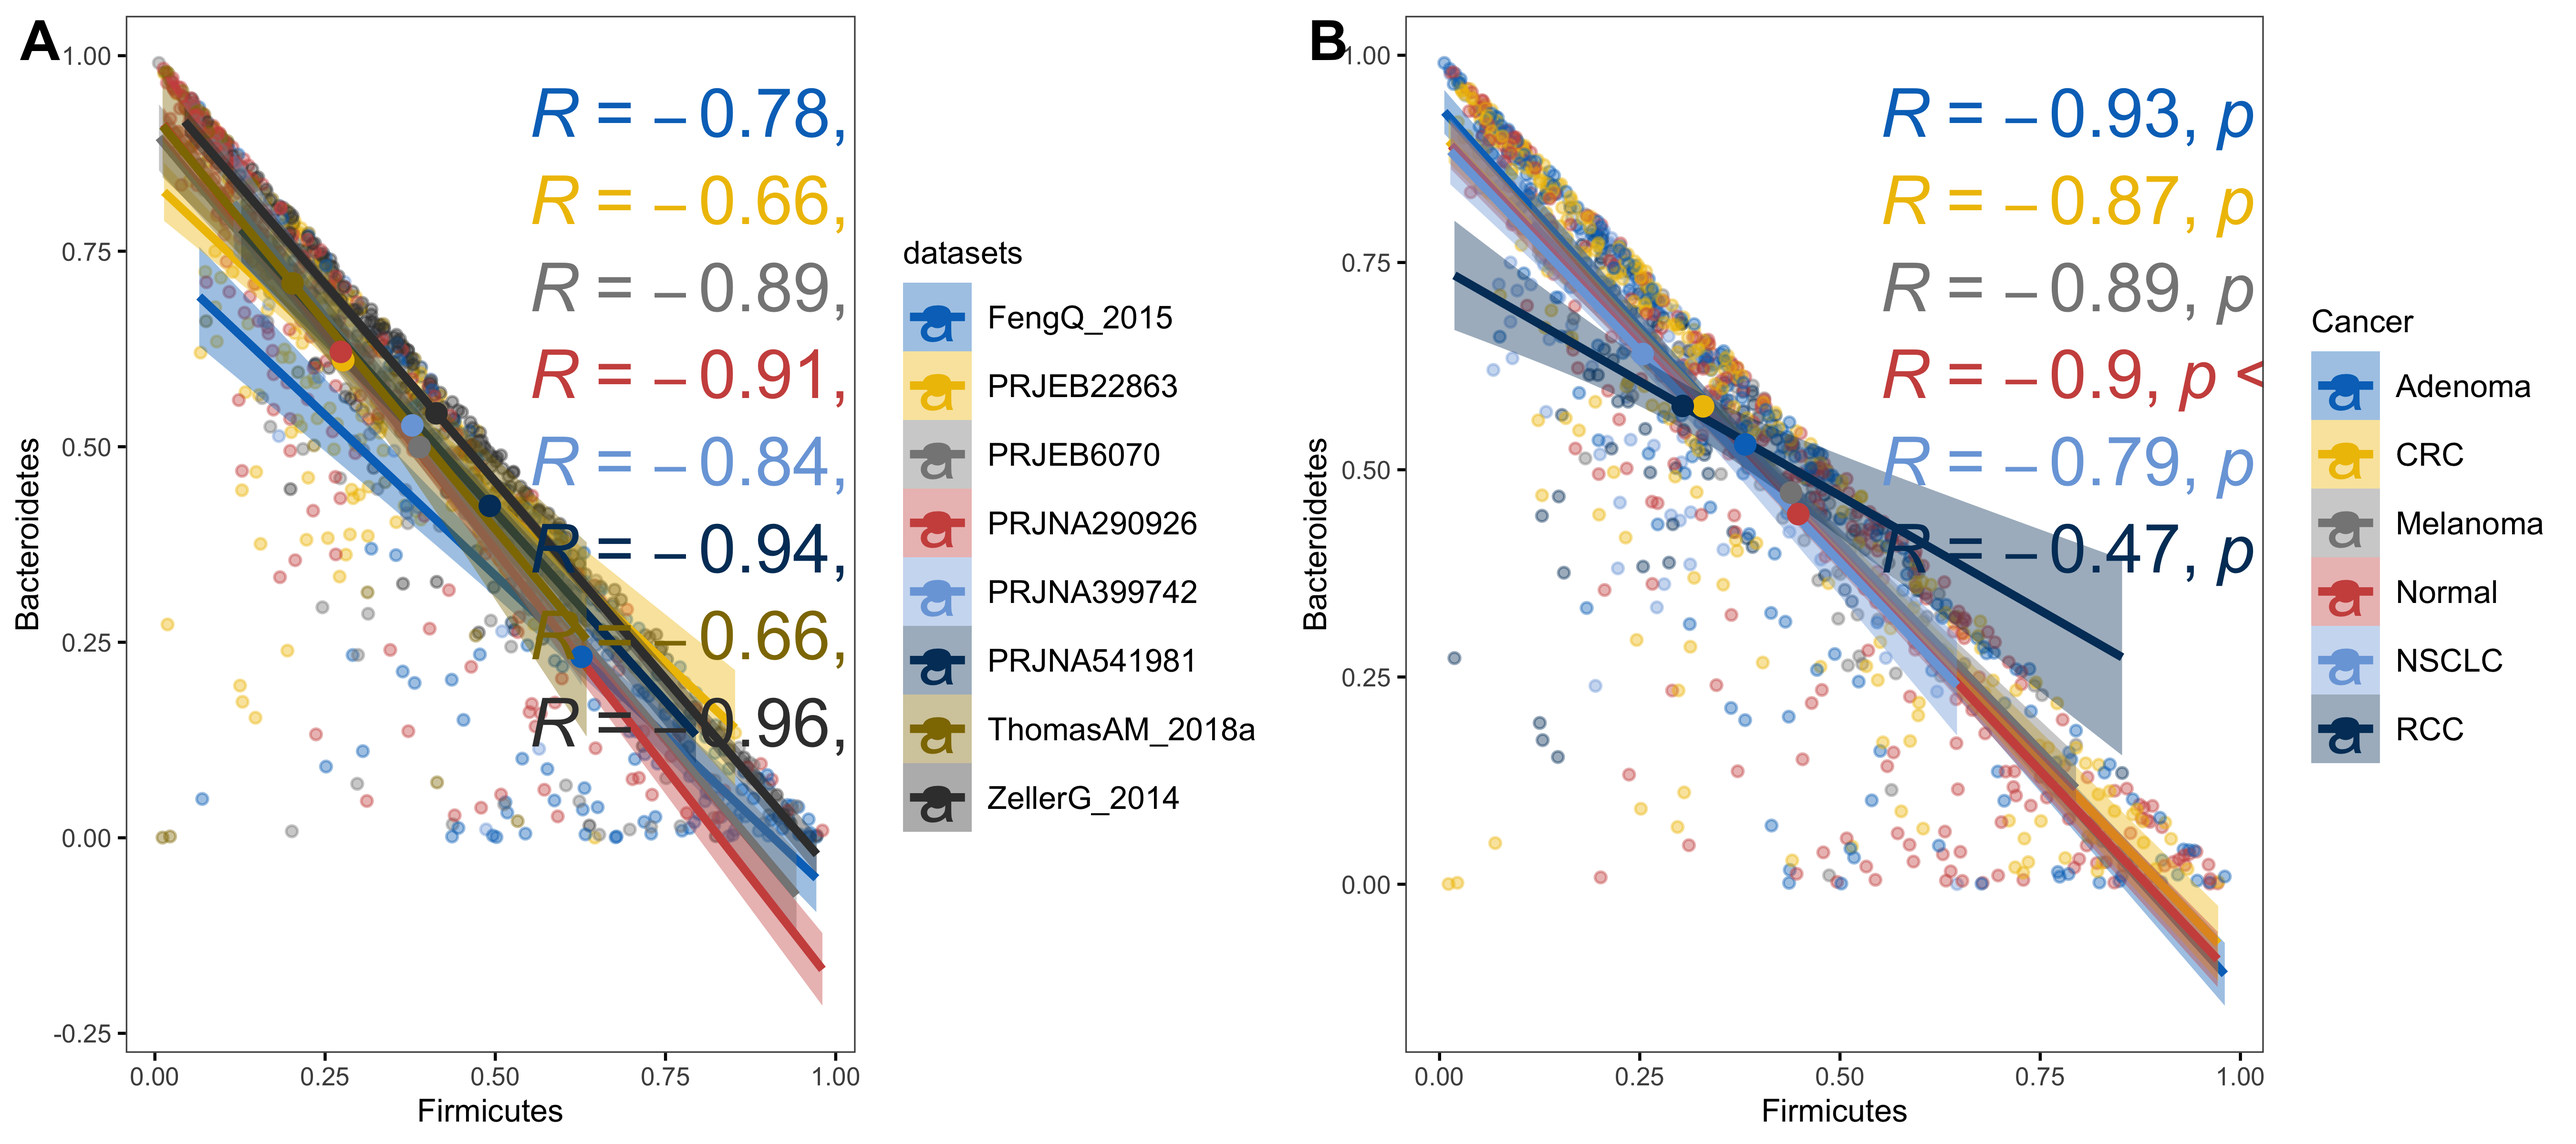
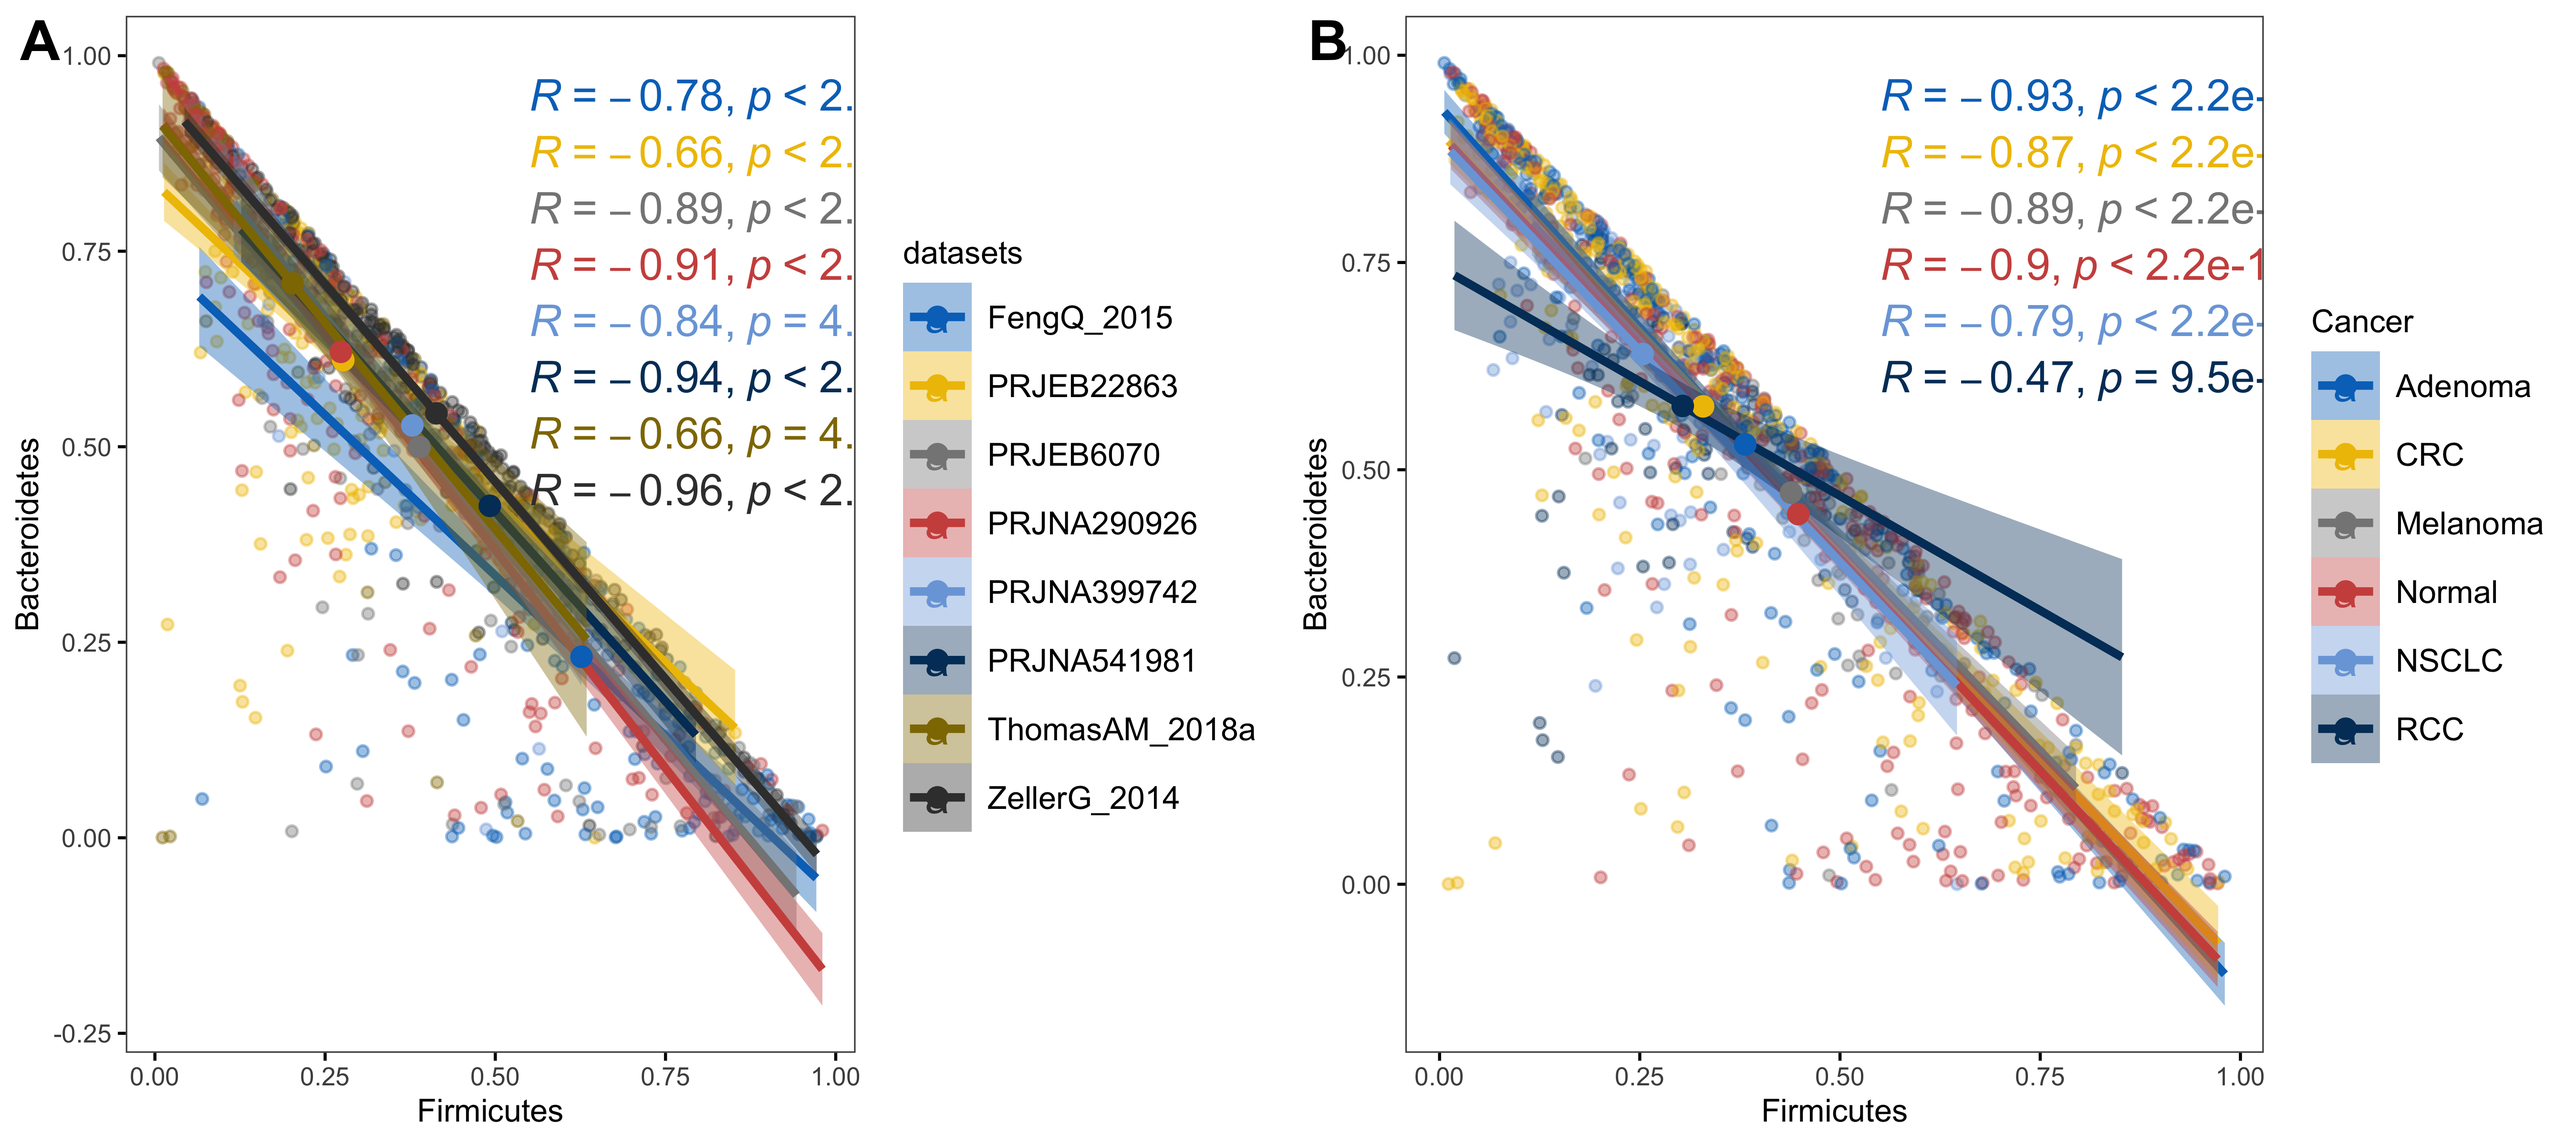
correlate the BMI and irAEs analysis publicdatasets

diff --git a/Analysis Ducoments/BMI_and_irAEs.md b/Analysis Ducoments/BMI_and_irAEs.md
@@ -184,7 +184,7 @@
               y = "Bacteroidetes",size=1,alpha=0.4,color="datasets",cor.method = "spearman",mean.point = T,
               palette = "jco",add.params = list(alpha=0.5,size=1), ggtheme = theme_few(base_size = 8),
               add = "reg.line", conf.int = TRUE)+
-      stat_cor(aes(color=datasets),label.x = 0.55,size=6)+
+      stat_cor(aes(color=datasets),label.x = 0.55)+
       theme(legend.text = element_text(size=8))
 
     p2<-ggscatter(data, x = "Firmicutes", mean.point = T,cor.method = "spearman",
@@ -192,12 +192,12 @@
               y = "Bacteroidetes",size=1,alpha=0.4,color="Cancer",
               palette = "jco",add.params = list(alpha=0.5,size=1),
               add = "reg.line", conf.int = TRUE)+
-      stat_cor(aes(color=Cancer),label.x = 0.55,size=6)+
+      stat_cor(aes(color=Cancer),label.x = 0.55)+
       theme(legend.text = element_text(size=8))
 
     plot_grid(p1,p2,labels = c("A","B"), ncol =2, nrow = 1)
 
-<img src="BMI_and_irAEs_files/figure-markdown_strict/unnamed-chunk-6-1.png" width="80%" style="display: block; margin: auto;" />
+<img src="BMI_and_irAEs_files/figure-markdown_strict/unnamed-chunk-6-1.png" width="100%" style="display: block; margin: auto;" />
 
 ### 1.4.2 Diagnostic value of Gut FBratio in CRC cohorts
 
